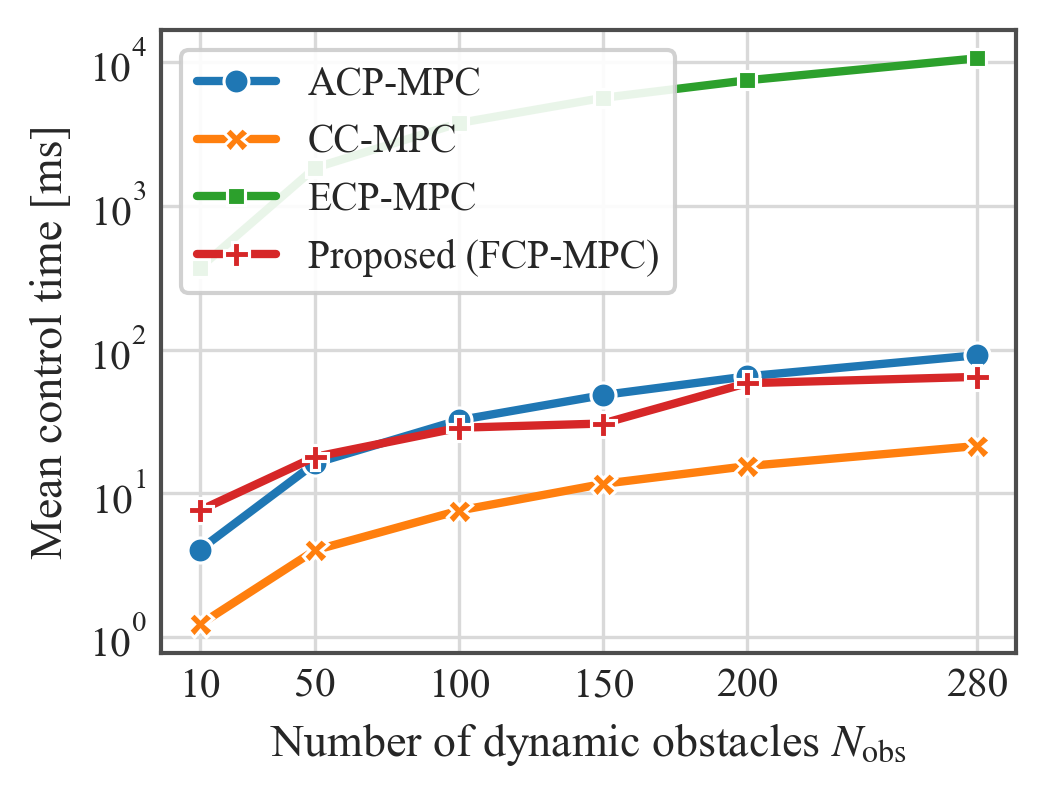
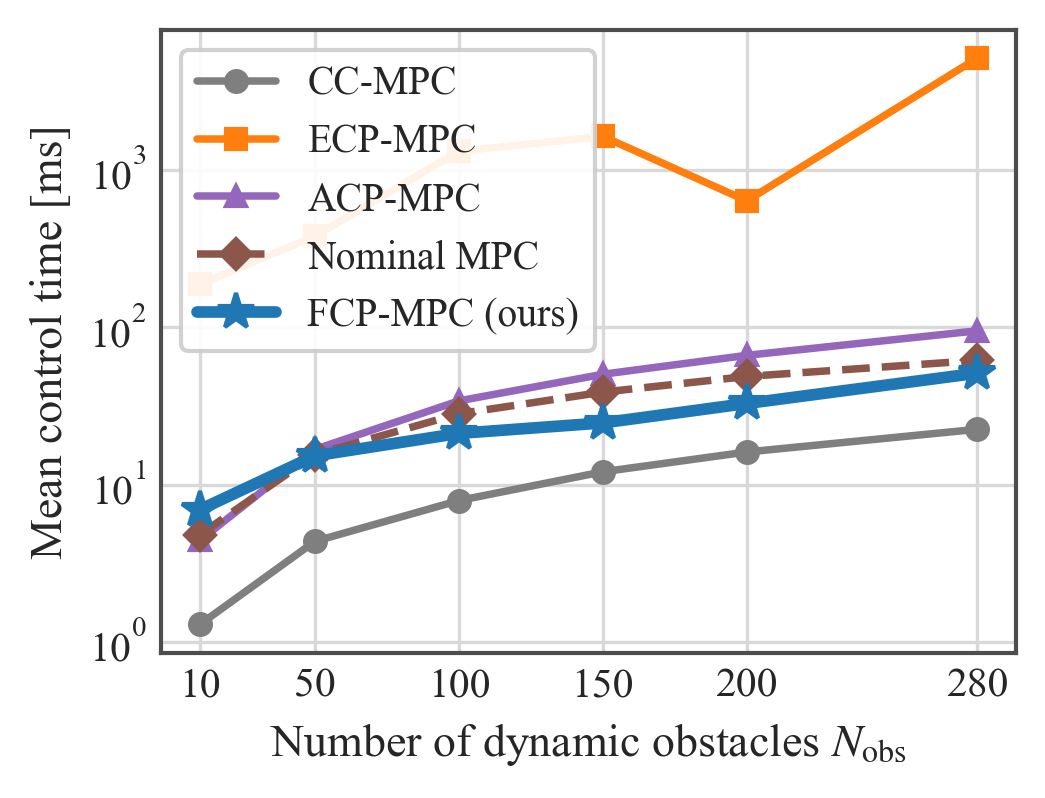
3D figures from unified run: traj(4-method) + scalability(5-method, FCP emphasized); fix plot_n_obs method filter + colors; add Nominal MPC to driver
- scalability bug: plot_n_obs filtered to 3 methods (hue_order expected 'Proposed (FCP-MPC)' but driver labels 'FCP-MPC (ours)'); now plots all methods with colours matching the trajectory figure, FCP (ours) emphasized
- traj_3d_seeds.png + control_time_3d.png regenerated from one consistent 5-method run (seeds 20-24, n_obs 280 + sweep); clean sequential timing
- NOTE: outcome numbers (collision/reached) differ from current paper text under the break_on_collision config -- table/prose left unchanged pending review

diff --git a/plot_n_obs.py b/plot_n_obs.py
@@ -23,30 +23,27 @@ def main():
     })
     plt.figure(figsize=(3.6, 2.8))
 
-    method_mapping = {
-        'acp': 'ACP-MPC',
-        'cc': 'CC-MPC',
-        'ecp': 'ECP-MPC',
-        'fcp': 'Proposed (FCP-MPC)'
-    }
-    df['method_display'] = df['method'].map(method_mapping).fillna(df['method'])
-    # Ordered by development year: ACP, CC, ECP, FCP (ours).
-    order = [m for m in ['ACP-MPC', 'CC-MPC', 'ECP-MPC', 'Proposed (FCP-MPC)']
-             if m in set(df['method_display'])]
+    # normalize legacy short names; the unified driver already uses display names
+    short = {'acp': 'ACP-MPC', 'cc': 'CC-MPC', 'ecp': 'ECP-MPC',
+             'fcp': 'FCP-MPC (ours)', 'nocp': 'Nominal MPC'}
+    df['method_display'] = df['method'].map(lambda m: short.get(m, m))
 
-    sns.lineplot(
-        data=df,
-        x='n_obs',
-        y='ctrl_mean_ms',
-        hue='method_display',
-        style='method_display',
-        hue_order=order,
-        style_order=order,
-        markers=True,
-        dashes=False,
-        linewidth=2.0,
-        markersize=6
-    )
+    # colours/markers consistent with the trajectory figure (make_figs_3d); ours emphasized
+    style = {
+        "CC-MPC":         ("#7f7f7f", "-",  "o", 1.8, 5),
+        "ECP-MPC":        ("#ff7f0e", "-",  "s", 1.8, 5),
+        "ACP-MPC":        ("#9467bd", "-",  "^", 1.8, 5),
+        "Nominal MPC":    ("#8c564b", "--", "D", 1.8, 5),
+        "FCP-MPC (ours)": ("#1f77b4", "-",  "*", 2.8, 9),
+    }
+    order = [m for m in ["CC-MPC", "ECP-MPC", "ACP-MPC", "Nominal MPC", "FCP-MPC (ours)"]
+             if m in set(df['method_display'])]
+    for m in order:
+        sub = (df[df['method_display'] == m]
+               .groupby('n_obs')['ctrl_mean_ms'].mean().reset_index().sort_values('n_obs'))
+        c, ls, mk, lw, ms = style.get(m, ("0.5", "-", "o", 1.8, 5))
+        plt.plot(sub['n_obs'], sub['ctrl_mean_ms'], color=c, linestyle=ls,
+                 marker=mk, linewidth=lw, markersize=ms, label=m)
 
     plt.yscale('log')
 

diff --git a/make_3d_results.py b/make_3d_results.py
@@ -42,7 +42,7 @@ from concurrent.futures import ProcessPoolExecutor, as_completed
 import numpy as np
 
 from make_figs_3d import (ENV_KWARGS, EXP_BASE, METHODS, build_env, make_figure,
-                          PAPER_DIR)
+                          PAPER_DIR, run_fcp)
 
 HERE = os.path.dirname(os.path.abspath(__file__))
 METRIC_DIR = os.path.join(HERE, "metric_3d")
@@ -56,6 +56,10 @@ SCAL_OUT = os.path.join(PAPER_DIR, "control_time_3d.png")
 # label -> (run_fn, extras); reuse the exact method configs from make_figs_3d
 METHOD_MAP = {m[0]: (m[1], m[2]) for m in METHODS}
 METHOD_LABELS = [m[0] for m in METHODS]
+# Nominal MPC (no conformal calibration) -- included in table/scalability only;
+# make_figure iterates make_figs_3d.METHODS (4) so it is excluded from Fig.6.
+METHOD_MAP["Nominal MPC"] = (run_fcp, {"CP": False, "n_calib_samples": 0, "break_on_collision": True})
+METHOD_LABELS.append("Nominal MPC")
 
 
 # ----------------------------------------------------------------------------- metrics